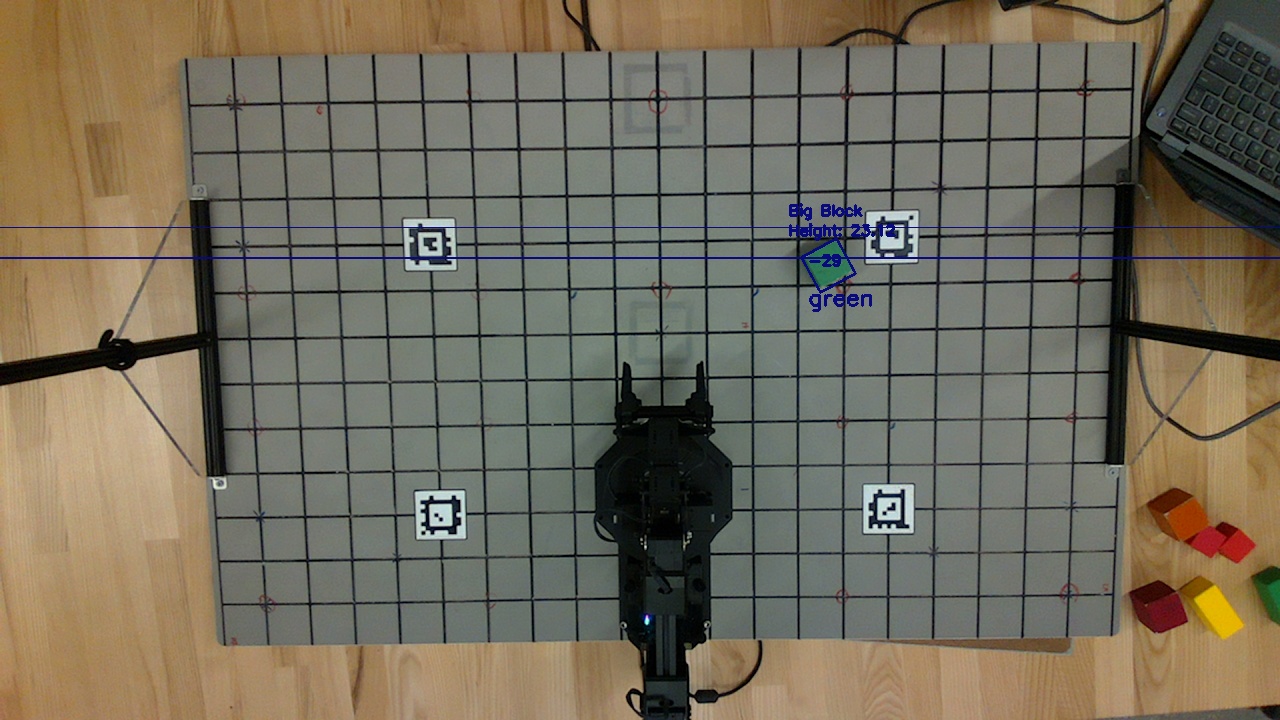
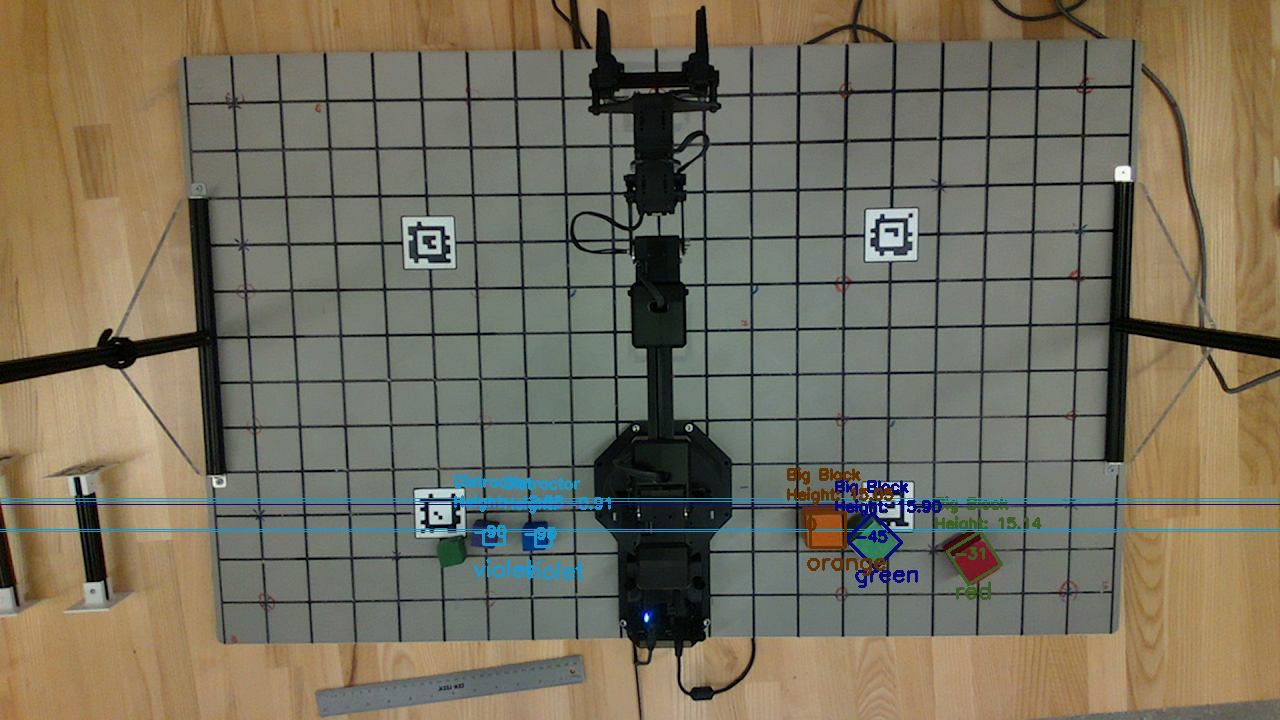
changes to run event 1

diff --git a/state_machine.py b/state_machine.py
@@ -9,7 +9,7 @@ import cv2
 import math
 import sys
 import os
-from kinematics import IK_geometric_two, IK_geometric_event_1
+from kinematics import IK_geometric_two, IK_geometric_event_1, get_R_from_euler_angles
 
 class StateMachine():
     """!
@@ -624,13 +624,15 @@ class StateMachine():
         self.status_message = "Running Event 1"
         self.current_state = "event1"
         
+        self.waypoints = []
+        self.waypoint_grip = []
 
         if self.init1:
             self.smallBlockPlace1 = np.zeros((4,4))
-            self.smallBlockPlace1[0:3,0:3] = np.eye(3,3)
-            self.smallBlockPlace1[-1,:] = 50*np.array([-3, -2, 0, 1])
+            self.smallBlockPlace1[0:3,0:3] = get_R_from_euler_angles(0.0,np.pi,0.0)
             self.bigBlockPlace1 = self.smallBlockPlace1.copy()
-            self.bigBlockPlace1[-1,:] = 50*np.array([3, -2, 0, 1])
+            self.smallBlockPlace1[:,-1] = 50*np.array([-2, -1, 0, 1])
+            self.bigBlockPlace1[:,-1] = 50*np.array([2, -1, 0, 1])
             self.init1 = False
 
         self.rxarm.sleep() 
@@ -640,7 +642,7 @@ class StateMachine():
         #Ensure that there are no blocks in negative zone
         UL = 50*np.array([9,1.5,0])
         LR = 50*np.array([4,-2.5,0])
-        zone = [UR, LL]
+        zone = [UL, LR]
         BIZ = self.camera.block_in_zone(zone)
         if BIZ:
             blocks_to_move = []
@@ -652,7 +654,7 @@ class StateMachine():
         #Ensure that there are no blocks in positive zone
         UL = 50*np.array([-4,1.5,0])
         LR = 50*np.array([-9,-2.5,0])
-        zone = [UR, LL]
+        zone = [UL, LR]
         BIZ = self.camera.block_in_zone(zone)
         if BIZ:
             blocks_to_move = []
@@ -668,13 +670,19 @@ class StateMachine():
 
             #Move small blocks to negative block area
             if x>=0 and block_type == 'Small Block':
-                pick_up_block(block_Frame,"down")
-                place_block(self.smallBlockPlace1,"down")
+                self.pick_up_block(block_Frame,"down",15)
+                print(self.smallBlockPlace1)
+                print('\n')
+                self.smallBlockPlace1[0,-1] -= 50
+                print(self.smallBlockPlace1)
+                print('\n')
+                self.place_block(self.smallBlockPlace1,"down",15)
                 moves += 1
             #Move big blocks to positive block araea
             elif x<=0 and block_type == 'Big Block':
-                pick_up_block(block_Frame,"down")
-                place_block(self.bigBlockPlace1,"down")
+                self.pick_up_block(block_Frame,"down", 30)
+                self.bigBlockPlace1[0,-1] += 75
+                self.place_block(self.bigBlockPlace1,"down",30)
                 moves +=1
 
         #Done if robot determined that there was nothin to move
@@ -886,16 +894,16 @@ class StateMachine():
         self.camera.detectBlocksInDepthImage()
         self.camera.blockDetector()
 
-    def pick_up_block(self, pickupFrame, direction):
+    def pick_up_block(self, pickupFrame, direction, offset):
         """!
         @brief      Adds waypoints to pick up block
         """        
-        self.waypoints = []
-        self.waypoint_grip = []
+        # self.waypoints = []
+        # self.waypoint_grip = []
 
         approachFrame = pickupFrame.copy()
         approachFrame[2,-1] += 100
-        pickupFrame[2,-1] += 10
+        pickupFrame[2,-1] -= offset
 
         #TODO: write IK function to accomplish the rest of this
         approach = IK_geometric_event_1(self.rxarm.dh_params, approachFrame, direction)     
@@ -913,16 +921,15 @@ class StateMachine():
         self.waypoints.append(approach)
         self.waypoint_grip.append(1)
 
-    def place_block(self, placeFrame, direction):
+    def place_block(self, placeFrame, direction, offset):
         """!
         @brief      Adds waypoints to place block
         """                
-        self.waypoints = []
-        self.waypoint_grip = []
-
+        # self.waypoints = []
+        # self.waypoint_grip = []
         approachFrame = placeFrame.copy()
         approachFrame[2,-1] += 100
-        placeFrame[2,-1] -= 10
+        placeFrame[2,-1] += offset
 
         #TODO: write IK function to accomplish the rest of this
         approach = IK_geometric_event_1(self.rxarm.dh_params, approachFrame, direction)      
@@ -956,7 +963,7 @@ class StateMachine():
         bigBlockPlace1 = self.camera.blockData[0][0].copy()
         bigBlockPlace1[0][-1] -= 250
         self.place_block(bigBlockPlace1,"down")   
-        self.next_state = "execute"
+        self.next_state = "executeAndReturn"
 
 #Testing block_in_zone
 '''

diff --git a/kinematics.py b/kinematics.py
@@ -105,7 +105,7 @@ def get_euler_angles_from_T(T):
     R = T[0:3,0:3]  #Rotation Matrix
 
     # try:
-    theta = math.atan2(math.sqrt(1-(R[2][2])**2),R[2][2])
+    theta = math.atan2(math.sqrt(1-round((R[2][2])**2)),R[2][2])
     # print(R)
     # print('\n')
     # print(theta)
